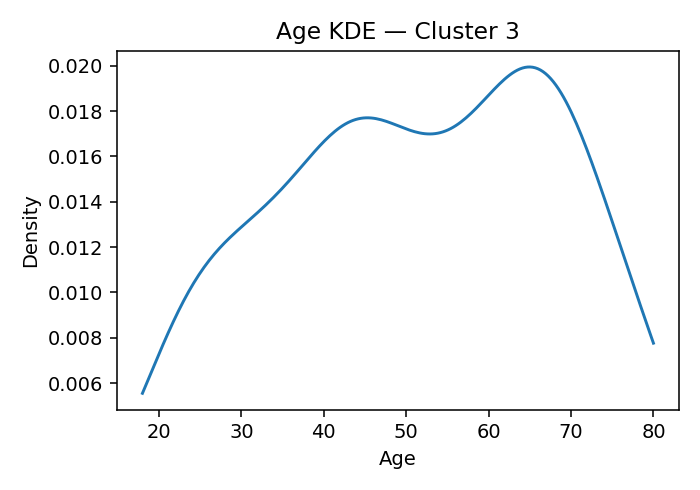
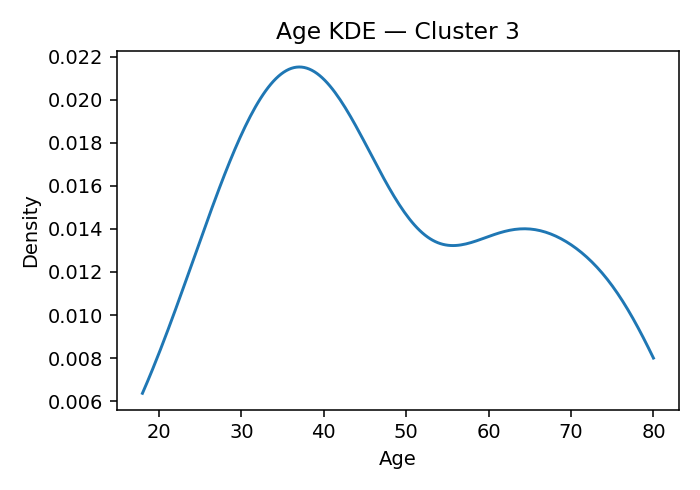
update

diff --git a/anes_cluster_output/clusters_printable_summary.md b/anes_cluster_output/clusters_printable_summary.md
@@ -1,107 +1,190 @@
-# ANES Ideology Clusters (K=10, silhouette=0.146 if computed)
+# ANES Ideology Clusters (K=18, silhouette=0.137 if computed)
 
-## Cluster 0
-**Population share (weighted):** 25.1%
-**Avg Party ID:** 1.93 | **% Harris (weighted):** 93.2%
-**Gender (weighted):** Man 47.8%, Woman 47.5%, Nonbinary 4.7%, Other 0.0%
-**Education (weighted):** College 83.1% | No college 16.9%
-**Homogeneity:** avg z-dist=1.8856, feature z-std=0.4663, domain dispersion=0.191
-![Age KDE — Cluster 0](anes_cluster_output/plots/age_kdensity_cluster0.png)
-**Ideology summary:** Cluster 0 holds relatively liberal views on abortion, immigration, redistribution, environment, health, defense, and religion, as indicated by negative z-scores across all domains. Their strongest liberal stance is on immigration (-0.89) and environment (-0.60), suggesting support for more open immigration policies and environmental protections. They are moderately liberal on abortion, redistribution, health, defense, and religion as well.
+## Cluster 13
+**Population share (weighted):** 19.2%
+**Avg Party ID:** 1.95 (p10–p90: 1.0–3.0)
+**Vote intention (weighted):** Harris 92.2% · Trump 2.6% · Other 5.2% · Non-voting 4.4%
+**Gender (weighted):** Man 49.3% · Woman 44.6% · Nonbinary 6.1% · Other 0.1%
+**Education (weighted):** College 82.7% | No college 17.3%
+**Homogeneity:** avg z-dist 1.5609, feature z-std 0.3464, domain dispersion 0.1726
+![Age KDE — Cluster 13](anes_cluster_output/plots/age_kdensity_cluster13.png)
+**Ideology summary:** Cluster 13 holds consistently liberal views across all domains, with negative mean z-scores indicating opposition to conservative positions on abortion (-0.52), immigration (-0.92), redistribution (-0.53), environment (-0.63), health (-0.37), defense (-0.41), and religion (-0.68). Variation is low in health and defense (SD=0.05), suggesting strong consensus, while immigration (SD=0.39) and religion (SD=0.42) show somewhat more internal diversity. Overall, the cluster is moderately homogeneous (avg z-dist 1.561), with a liberal-leaning party ID (mean 1.95) and high college education (82.7%), predominantly supporting Harris (92.2%) over Trump (2.6%).
 
-## Cluster 3
-**Population share (weighted):** 7.1%
-**Avg Party ID:** 3.71 | **% Harris (weighted):** 42.7%
-**Gender (weighted):** Man 33.7%, Woman 66.0%, Nonbinary 0.0%, Other 0.4%
-**Education (weighted):** College 46.3% | No college 53.7%
-**Homogeneity:** avg z-dist=3.0245, feature z-std=0.6583, domain dispersion=0.1856
-![Age KDE — Cluster 3](anes_cluster_output/plots/age_kdensity_cluster3.png)
-**Ideology summary:** Cluster 3 holds slightly more liberal views on abortion, redistribution, health, and religion, as indicated by their negative z-scores in these domains. Their positions on immigration and the environment are close to neutral but lean marginally conservative, while they show a more notably conservative stance on defense. Overall, the cluster exhibits a mixed profile with moderate liberal tendencies in social and economic issues and conservative leanings in defense.
-
-## Cluster 2
-**Population share (weighted):** 4.8%
-**Avg Party ID:** 3.79 | **% Harris (weighted):** 53.3%
-**Gender (weighted):** Man 35.8%, Woman 62.9%, Nonbinary 0.0%, Other 1.3%
-**Education (weighted):** College 46.9% | No college 53.1%
-**Homogeneity:** avg z-dist=3.7285, feature z-std=0.8355, domain dispersion=0.389
-![Age KDE — Cluster 2](anes_cluster_output/plots/age_kdensity_cluster2.png)
-**Ideology summary:** Cluster 2 holds slightly more liberal views on abortion and immigration, with modestly liberal attitudes toward health and religion. They lean moderately conservative on redistribution, environment, and defense issues. Overall, their positions reflect a mix of liberal and conservative stances depending on the domain.
-
-## Cluster 8
-**Population share (weighted):** 22.2%
-**Avg Party ID:** 3.79 | **% Harris (weighted):** 53.0%
-**Gender (weighted):** Man 49.6%, Woman 49.1%, Nonbinary 0.7%, Other 0.6%
-**Education (weighted):** College 68.6% | No college 31.4%
-**Homogeneity:** avg z-dist=2.3486, feature z-std=0.5347, domain dispersion=0.1598
-![Age KDE — Cluster 8](anes_cluster_output/plots/age_kdensity_cluster8.png)
-**Ideology summary:** Cluster 8 holds slightly more liberal views on abortion, immigration, environment, health, defense, and religion, as indicated by their negative z-scores in these domains. Their stance on redistribution is marginally more conservative, with a small positive z-score. Overall, the cluster leans liberal on social and policy issues, with a modest conservative tilt on economic redistribution.
-
-## Cluster 7
-**Population share (weighted):** 4.7%
-**Avg Party ID:** 3.98 | **% Harris (weighted):** 48.4%
-**Gender (weighted):** Man 39.9%, Woman 59.5%, Nonbinary 0.2%, Other 0.4%
-**Education (weighted):** College 48.7% | No college 51.3%
-**Homogeneity:** avg z-dist=4.013, feature z-std=0.9308, domain dispersion=1.1061
-![Age KDE — Cluster 7](anes_cluster_output/plots/age_kdensity_cluster7.png)
-**Ideology summary:** Cluster 7 holds slightly liberal views on abortion and redistribution, with a modestly liberal stance on religion. They lean somewhat conservative on immigration, environment, health, and defense, showing a particularly strong conservative position on health.
-
-## Cluster 4
-**Population share (weighted):** 3.9%
-**Avg Party ID:** 4.15 | **% Harris (weighted):** 38.7%
-**Gender (weighted):** Man 46.8%, Woman 51.7%, Nonbinary 0.6%, Other 0.8%
-**Education (weighted):** College 45.2% | No college 54.8%
-**Homogeneity:** avg z-dist=3.9753, feature z-std=0.9994, domain dispersion=1.059
-![Age KDE — Cluster 4](anes_cluster_output/plots/age_kdensity_cluster4.png)
-**Ideology summary:** Cluster 4 holds strongly conservative views on abortion, environment, health, and defense, as indicated by notably positive z-scores in these domains. Their positions on immigration, redistribution, and religion are slightly conservative but close to neutral. Overall, the cluster leans toward conservative stances, especially on health and defense issues.
-
-## Cluster 9
-**Population share (weighted):** 3.6%
-**Avg Party ID:** 4.23 | **% Harris (weighted):** 37.9%
-**Gender (weighted):** Man 65.2%, Woman 32.6%, Nonbinary 0.4%, Other 1.8%
-**Education (weighted):** College 41.1% | No college 58.9%
-**Homogeneity:** avg z-dist=4.2542, feature z-std=1.0178, domain dispersion=0.7451
-![Age KDE — Cluster 9](anes_cluster_output/plots/age_kdensity_cluster9.png)
-**Ideology summary:** Cluster 9 holds strongly conservative views on abortion and moderately conservative positions on immigration, environment, health, and defense. Their stance on redistribution is slightly liberal, and their views on religion are near neutral with a slight liberal tendency. Overall, the cluster leans conservative on most issues except redistribution and religion.
+## Cluster 14
+**Population share (weighted):** 2.7%
+**Avg Party ID:** 2.49 (p10–p90: 1.0–6.0)
+**Vote intention (weighted):** Harris 84.9% · Trump 11.5% · Other 3.6% · Non-voting 6.4%
+**Gender (weighted):** Man 46.5% · Woman 53.5% · Nonbinary 0.0% · Other 0.0%
+**Education (weighted):** College 74.4% | No college 25.6%
+**Homogeneity:** avg z-dist 2.8762, feature z-std 0.7118, domain dispersion 0.6081
+![Age KDE — Cluster 14](anes_cluster_output/plots/age_kdensity_cluster14.png)
+**Ideology summary:** Cluster 14 holds generally liberal views on abortion, immigration, redistribution, environment, health, and defense, as indicated by negative domain means (z-scores from -0.21 to -0.47). In contrast, they are strongly conservative on religion (+1.39), showing a clear divergence in this domain. Variation is moderate across domains, with immigration (SD=0.66) and health (SD=0.64) showing the most heterogeneity, while religion is relatively homogeneous (SD=0.36). Overall, the cluster is moderately politically engaged (Party ID mean 2.49) and leans heavily toward Harris (84.9%) with high college education (74.4%).
 
 ## Cluster 5
-**Population share (weighted):** 5.7%
-**Avg Party ID:** 4.42 | **% Harris (weighted):** 40.5%
-**Gender (weighted):** Man 37.5%, Woman 62.3%, Nonbinary 0.1%, Other 0.0%
-**Education (weighted):** College 53.0% | No college 47.0%
-**Homogeneity:** avg z-dist=3.402, feature z-std=0.7506, domain dispersion=0.381
+**Population share (weighted):** 11.1%
+**Avg Party ID:** 2.77 (p10–p90: 1.0–5.0)
+**Vote intention (weighted):** Harris 80.6% · Trump 12.3% · Other 7.2% · Non-voting 10.5%
+**Gender (weighted):** Man 48.9% · Woman 50.4% · Nonbinary 0.2% · Other 0.5%
+**Education (weighted):** College 77.6% | No college 22.4%
+**Homogeneity:** avg z-dist 1.7716, feature z-std 0.3766, domain dispersion 0.2173
 ![Age KDE — Cluster 5](anes_cluster_output/plots/age_kdensity_cluster5.png)
-**Ideology summary:** Cluster 5 holds slightly more liberal views on abortion and health, and notably liberal views on redistribution and religion. They lean moderately conservative on immigration, environment, and defense. Overall, their stance combines liberal social policies with a preference for stronger defense and moderate conservatism on immigration and environmental issues.
-
-## Cluster 6
-**Population share (weighted):** 6.6%
-**Avg Party ID:** 5.49 | **% Harris (weighted):** 16.4%
-**Gender (weighted):** Man 49.6%, Woman 50.1%, Nonbinary 0.0%, Other 0.2%
-**Education (weighted):** College 69.9% | No college 30.1%
-**Homogeneity:** avg z-dist=3.4052, feature z-std=0.8727, domain dispersion=0.4749
-![Age KDE — Cluster 6](anes_cluster_output/plots/age_kdensity_cluster6.png)
-**Ideology summary:** Cluster 6 holds moderately conservative views on abortion, immigration, redistribution, and the environment, with the strongest conservatism in religion. Their positions on health and defense are slightly more liberal. Overall, they emphasize religious values while maintaining conservative stances on social and economic issues.
+**Ideology summary:** Cluster 5 holds generally liberal views on abortion (-0.43), immigration (-0.47), environment (-0.50), health (-0.34), defense (-0.39), and religion (-0.63), with a slight conservative tilt on redistribution (+0.11). Variation is low in health (SD=0.06) and defense (SD=0.04), indicating strong consensus, while religion (SD=0.43) and immigration (SD=0.39) show more internal diversity. Overall homogeneity is moderate (avg z-dist=1.772), reflecting some within-cluster variation. The cluster leans Democratic (Harris 80.6%) with high college education (77.6%) and moderate party ID (mean 2.77).
 
 ## Cluster 1
-**Population share (weighted):** 16.4%
-**Avg Party ID:** 6.0 | **% Harris (weighted):** 3.6%
-**Gender (weighted):** Man 58.5%, Woman 41.2%, Nonbinary 0.0%, Other 0.3%
-**Education (weighted):** College 63.0% | No college 37.0%
-**Homogeneity:** avg z-dist=2.3634, feature z-std=0.5583, domain dispersion=0.4523
+**Population share (weighted):** 4.8%
+**Avg Party ID:** 2.95 (p10–p90: 1.0–6.0)
+**Vote intention (weighted):** Harris 75.9% · Trump 21.1% · Other 3.1% · Non-voting 17.6%
+**Gender (weighted):** Man 23.0% · Woman 75.4% · Nonbinary 0.0% · Other 1.6%
+**Education (weighted):** College 58.8% | No college 41.2%
+**Homogeneity:** avg z-dist 2.9329, feature z-std 0.6191, domain dispersion 1.0337
 ![Age KDE — Cluster 1](anes_cluster_output/plots/age_kdensity_cluster1.png)
-**Ideology summary:** Cluster 1 holds moderately conservative views on abortion, immigration, redistribution, and the environment. They lean slightly liberal on health, defense, and religion. Overall, their stance is mixed but tends toward conservatism in social and economic issues.
+**Ideology summary:** Cluster 1 holds generally liberal views on abortion, immigration, redistribution, environment, health, and religion, as indicated by negative mean z-scores ranging from -0.24 to -0.36. Defense stands out with a strongly conservative mean z-score of +2.64 and zero variation, indicating unanimous conservative views on this domain. Variation within domains is moderate to low, especially minimal for health (SD=0.06) and defense (SD=0.00), suggesting relative homogeneity in these areas, while immigration shows the highest variation (SD=0.67). Overall, the cluster exhibits moderate homogeneity (avg z-dist=2.933), with a liberal-leaning profile except for a strong consensus on conservative defense attitudes.
+
+## Cluster 7
+**Population share (weighted):** 4.6%
+**Avg Party ID:** 3.63 (p10–p90: 1.0–7.0)
+**Vote intention (weighted):** Harris 45.5% · Trump 45.0% · Other 9.5% · Non-voting 15.9%
+**Gender (weighted):** Man 43.3% · Woman 56.1% · Nonbinary 0.0% · Other 0.6%
+**Education (weighted):** College 41.1% | No college 58.9%
+**Homogeneity:** avg z-dist 2.6121, feature z-std 0.5478, domain dispersion 0.1116
+![Age KDE — Cluster 7](anes_cluster_output/plots/age_kdensity_cluster7.png)
+**Ideology summary:** Cluster 7 exhibits generally liberal views, with negative mean z-scores on abortion (-0.17), redistribution (-0.26), environment (-0.25), health (-0.33), defense (-0.37), and religion (-0.26), while immigration is neutral (-0.00). Variation is low in health (0.07) and defense (0.05), indicating strong consensus on these domains, but higher in immigration (0.70) and religion (0.64), showing more diverse opinions there. The cluster is moderately homogeneous (avg z-dist 2.612), with moderate variation across features (z-std 0.548) and low domain dispersion (0.112), reflecting consistent liberal-leaning attitudes overall. Party ID is mixed, with nearly equal support for Harris and Trump, suggesting ideological diversity within the group.
+
+## Cluster 3
+**Population share (weighted):** 3.3%
+**Avg Party ID:** 3.87 (p10–p90: 1.0–7.0)
+**Vote intention (weighted):** Harris 44.1% · Trump 50.8% · Other 5.1% · Non-voting 34.1%
+**Gender (weighted):** Man 41.4% · Woman 58.6% · Nonbinary 0.0% · Other 0.0%
+**Education (weighted):** College 53.0% | No college 47.0%
+**Homogeneity:** avg z-dist 4.0097, feature z-std 0.9193, domain dispersion 0.7451
+![Age KDE — Cluster 3](anes_cluster_output/plots/age_kdensity_cluster3.png)
+**Ideology summary:** Cluster 3 shows a mixed ideological profile: they are slightly liberal on abortion (-0.14) and religion (-0.33), but slightly conservative on immigration (+0.08) and redistribution (+0.29). They are strongly conservative on environment (+1.21), health (+1.21), and especially defense (+1.77). Variation is highest in health (SD=1.73) and defense (SD=1.36), indicating diverse views within the cluster on these domains, while redistribution (SD=0.45) and abortion (SD=0.55) are more homogeneous. Overall, moderate homogeneity is reflected in domain dispersion (0.745) and feature z-std (0.919), with an average ideological distance of 4.010.
+
+## Cluster 15
+**Population share (weighted):** 1.9%
+**Avg Party ID:** 3.88 (p10–p90: 1.0–7.0)
+**Vote intention (weighted):** Harris 57.2% · Trump 34.6% · Other 8.2% · Non-voting 36.9%
+**Gender (weighted):** Man 45.6% · Woman 53.9% · Nonbinary 0.5% · Other 0.0%
+**Education (weighted):** College 29.5% | No college 70.5%
+**Homogeneity:** avg z-dist 3.8364, feature z-std 0.8763, domain dispersion 1.1784
+![Age KDE — Cluster 15](anes_cluster_output/plots/age_kdensity_cluster15.png)
+**Ideology summary:** Cluster 15 shows generally liberal views on abortion (-0.10) and religion (-0.49), with moderate conservatism on immigration (+0.17), environment (+0.29), and defense (+0.74). Redistribution is notably liberal (-0.56), while health is strongly conservative (+3.16) with no variation, indicating unanimous conservative views on health. Defense has the highest variation (SD=1.45), suggesting diverse opinions. Overall, the cluster is moderately heterogeneous (avg z-dist 3.836), with a strong Republican leaning (Party ID mean 3.88) and a majority supporting Trump (34.6%) over Harris (57.2%).
+
+## Cluster 16
+**Population share (weighted):** 3.0%
+**Avg Party ID:** 3.91 (p10–p90: 1.0–7.0)
+**Vote intention (weighted):** Harris 51.7% · Trump 40.4% · Other 7.9% · Non-voting 13.8%
+**Gender (weighted):** Man 38.1% · Woman 59.8% · Nonbinary 0.0% · Other 2.1%
+**Education (weighted):** College 47.7% | No college 52.3%
+**Homogeneity:** avg z-dist 3.2661, feature z-std 0.7525, domain dispersion 0.375
+![Age KDE — Cluster 16](anes_cluster_output/plots/age_kdensity_cluster16.png)
+**Ideology summary:** Cluster 16 holds generally liberal views on abortion (-0.20), immigration (-0.10), environment (-0.05), health (-0.32), defense (-0.02), and religion (-0.61), with the strongest liberal stance on religion. They are moderately conservative on redistribution (+0.71). Variation is lowest on health (SD=0.07), indicating strong agreement, and highest on defense (SD=0.97), showing diverse opinions. Overall, the cluster is moderately heterogeneous (avg z-dist 3.266), with moderate dispersion across domains (0.375).
+
+## Cluster 12
+**Population share (weighted):** 5.6%
+**Avg Party ID:** 3.99 (p10–p90: 1.0–7.0)
+**Vote intention (weighted):** Harris 41.5% · Trump 47.0% · Other 11.5% · Non-voting 16.7%
+**Gender (weighted):** Man 31.1% · Woman 68.9% · Nonbinary 0.0% · Other 0.0%
+**Education (weighted):** College 57.3% | No college 42.7%
+**Homogeneity:** avg z-dist 3.2726, feature z-std 0.7138, domain dispersion 0.5977
+![Age KDE — Cluster 12](anes_cluster_output/plots/age_kdensity_cluster12.png)
+**Ideology summary:** Cluster 12 shows generally liberal views on abortion (-0.14), redistribution (-0.23), health (-0.33), and religion (-0.33), with a neutral stance on immigration (0.00). They are notably conservative on the environment (+1.36) and defense (+0.72). Variation is low for health (SD=0.07) indicating strong consensus, moderate for environment (0.44) and redistribution (0.50), but high for defense (1.44) and immigration (0.70), suggesting diverse opinions especially on defense. Overall, the cluster is moderately heterogeneous (avg z-dist 3.273) with moderate domain dispersion (0.598). Party ID is centered around 4 (scale 1–7), with a mix of Harris and Trump supporters and a majority college-educated.
+
+## Cluster 8
+**Population share (weighted):** 3.6%
+**Avg Party ID:** 4.22 (p10–p90: 1.0–7.0)
+**Vote intention (weighted):** Harris 38.0% · Trump 59.1% · Other 2.9% · Non-voting 28.0%
+**Gender (weighted):** Man 65.3% · Woman 32.5% · Nonbinary 0.4% · Other 1.8%
+**Education (weighted):** College 41.1% | No college 58.9%
+**Homogeneity:** avg z-dist 4.2348, feature z-std 1.0113, domain dispersion 0.7414
+![Age KDE — Cluster 8](anes_cluster_output/plots/age_kdensity_cluster8.png)
+**Ideology summary:** Cluster 8 is strongly conservative on abortion (mean z = +2.22) with moderate homogeneity (SD = 0.77), indicating general agreement but some variation. They are slightly conservative on immigration (+0.20), environment (+0.40), health (+0.35), and defense (+0.62), with defense and health showing higher variation (SDs 1.41 and 1.38), suggesting diverse views within the cluster. Redistribution (-0.17) and religion (-0.06) lean slightly liberal but near neutral, with moderate variation. Overall, the cluster shows moderate domain dispersion (0.741) and average ideological spread (feature z-std 1.011), reflecting a predominantly conservative profile with some internal diversity.
+
+## Cluster 6
+**Population share (weighted):** 2.9%
+**Avg Party ID:** 4.24 (p10–p90: 1.0–7.0)
+**Vote intention (weighted):** Harris 44.4% · Trump 37.5% · Other 18.1% · Non-voting 35.7%
+**Gender (weighted):** Man 43.1% · Woman 55.0% · Nonbinary 0.8% · Other 1.1%
+**Education (weighted):** College 42.9% | No college 57.1%
+**Homogeneity:** avg z-dist 3.7296, feature z-std 0.9247, domain dispersion 1.0569
+![Age KDE — Cluster 6](anes_cluster_output/plots/age_kdensity_cluster6.png)
+**Ideology summary:** Cluster 6 exhibits strongly conservative views on abortion (+2.12), health (+2.76), defense (+2.12), and environment (+1.26), with moderate conservatism on immigration (+0.04), redistribution (+0.10), and religion (+0.14). Variation is highest in health (SD=1.11), defense (1.13), and religion (1.11), indicating more diverse opinions in these domains, while abortion (0.80), immigration (0.66), redistribution (0.59), and environment (0.65) show more homogeneity. Overall, the cluster is moderately homogeneous (avg z-dist 3.73) with a conservative central tendency, reflected also in party ID mean of 4.24 and notable support for both Harris (44.4%) and Trump (37.5%).
+
+## Cluster 9
+**Population share (weighted):** 2.4%
+**Avg Party ID:** 4.36 (p10–p90: 1.0–7.0)
+**Vote intention (weighted):** Harris 38.5% · Trump 57.1% · Other 4.4% · Non-voting 5.2%
+**Gender (weighted):** Man 43.1% · Woman 56.1% · Nonbinary 0.0% · Other 0.7%
+**Education (weighted):** College 64.5% | No college 35.5%
+**Homogeneity:** avg z-dist 3.3709, feature z-std 0.7808, domain dispersion 1.1385
+![Age KDE — Cluster 9](anes_cluster_output/plots/age_kdensity_cluster9.png)
+**Ideology summary:** Cluster 9 shows slightly liberal views on abortion (-0.10) and religion (-0.53), with modestly conservative stances on immigration (+0.08), redistribution (+0.22), environment (+0.09), and defense (+0.04). Health stands out as strongly conservative (+3.16) with no variation, indicating unanimous agreement on this domain. Variation is moderate to high in defense (1.04) and environment (0.84), suggesting diverse opinions there, while abortion, immigration, redistribution, and religion show moderate homogeneity. Overall, the cluster is moderately heterogeneous (avg z-dist 3.371) with a center leaning slightly conservative except for health and religion, and a Party ID mean of 4.36 reflects a mixed partisan composition.
+
+## Cluster 0
+**Population share (weighted):** 10.4%
+**Avg Party ID:** 4.67 (p10–p90: 1.0–7.0)
+**Vote intention (weighted):** Harris 29.6% · Trump 60.6% · Other 9.8% · Non-voting 10.9%
+**Gender (weighted):** Man 53.4% · Woman 44.7% · Nonbinary 1.3% · Other 0.5%
+**Education (weighted):** College 61.7% | No college 38.3%
+**Homogeneity:** avg z-dist 2.1014, feature z-std 0.4242, domain dispersion 0.3337
+![Age KDE — Cluster 0](anes_cluster_output/plots/age_kdensity_cluster0.png)
+**Ideology summary:** Cluster 0 exhibits moderately conservative views on immigration (+0.57) but tends to be slightly liberal on abortion (-0.05), redistribution (-0.09), environment (-0.19), health (-0.31), defense (-0.36), and religion (-0.57). Variation is low for health (0.07) and defense (0.14), indicating consensus, while abortion (0.48) and religion (0.49) show more internal diversity. Overall, the cluster is moderately heterogeneous (avg z-dist 2.101) with moderate domain dispersion (0.334), reflecting some variation across issues despite a generally centrist-to-liberal stance except on immigration.
+
+## Cluster 10
+**Population share (weighted):** 3.1%
+**Avg Party ID:** 5.37 (p10–p90: 2.0–7.0)
+**Vote intention (weighted):** Harris 19.1% · Trump 74.1% · Other 6.8% · Non-voting 10.5%
+**Gender (weighted):** Man 38.1% · Woman 61.6% · Nonbinary 0.3% · Other 0.0%
+**Education (weighted):** College 56.9% | No college 43.1%
+**Homogeneity:** avg z-dist 2.9968, feature z-std 0.7006, domain dispersion 0.3591
+![Age KDE — Cluster 10](anes_cluster_output/plots/age_kdensity_cluster10.png)
+**Ideology summary:** Cluster 10 shows a moderately conservative stance on immigration (+0.54) and a slightly conservative view on environment (+0.19), while holding liberal positions on redistribution (-0.51), health (-0.27), defense (-0.14), and religion (-0.54). Abortion views are near neutral (+0.01). Variation is highest in defense (0.79) and environment (0.73), indicating diverse opinions there, while health (0.26) and redistribution (0.42) are more homogeneous. Overall, the cluster is moderately heterogeneous (avg z-dist 2.997) with moderate domain dispersion (0.359), reflecting some internal diversity despite a central tendency toward conservative immigration and liberal redistribution and religion.
+
+## Cluster 11
+**Population share (weighted):** 6.9%
+**Avg Party ID:** 5.38 (p10–p90: 3.0–7.0)
+**Vote intention (weighted):** Harris 11.7% · Trump 81.5% · Other 6.8% · Non-voting 12.2%
+**Gender (weighted):** Man 65.4% · Woman 34.6% · Nonbinary 0.0% · Other 0.0%
+**Education (weighted):** College 73.8% | No college 26.2%
+**Homogeneity:** avg z-dist 2.1091, feature z-std 0.4527, domain dispersion 0.3476
+![Age KDE — Cluster 11](anes_cluster_output/plots/age_kdensity_cluster11.png)
+**Ideology summary:** Cluster 11 exhibits moderately conservative views on abortion (+0.31), immigration (+0.15), redistribution (+0.47), and environment (+0.33), while showing more liberal stances on health (-0.26), defense (-0.35), and religion (-0.46). Variation is low for health (SD=0.06) and defense (0.21), indicating homogeneity in these domains, but higher for religion (0.59) and abortion (0.46), suggesting more diverse opinions. Overall, the cluster is somewhat ideologically consistent (domain dispersion 0.348) with a strong Republican leaning (Trump 81.5%) and high college education (73.8%).
+
+## Cluster 17
+**Population share (weighted):** 5.0%
+**Avg Party ID:** 5.68 (p10–p90: 4.0–7.0)
+**Vote intention (weighted):** Harris 9.8% · Trump 82.3% · Other 7.9% · Non-voting 3.1%
+**Gender (weighted):** Man 54.2% · Woman 45.5% · Nonbinary 0.0% · Other 0.3%
+**Education (weighted):** College 67.4% | No college 32.6%
+**Homogeneity:** avg z-dist 3.1036, feature z-std 0.8111, domain dispersion 0.5224
+![Age KDE — Cluster 17](anes_cluster_output/plots/age_kdensity_cluster17.png)
+**Ideology summary:** Cluster 17 holds generally conservative views on abortion (+0.77), immigration (+0.56), redistribution (+0.27), environment (+0.37), and strongly conservative views on religion (+1.50). They are slightly more liberal on health (-0.13) and defense (-0.12). Variation is moderate to high in defense (0.82), health (0.65), and environment (0.64), indicating some internal diversity, while religion is more homogeneous (SD 0.33). Overall, the cluster is moderately homogeneous (avg z-dist 3.104) with a strong Republican leaning (82.3% Trump supporters) and a majority college-educated (67.4%).
+
+## Cluster 4
+**Population share (weighted):** 3.6%
+**Avg Party ID:** 5.93 (p10–p90: 4.0–7.0)
+**Vote intention (weighted):** Harris 8.7% · Trump 85.4% · Other 6.0% · Non-voting 6.1%
+**Gender (weighted):** Man 48.9% · Woman 51.1% · Nonbinary 0.0% · Other 0.0%
+**Education (weighted):** College 57.0% | No college 43.0%
+**Homogeneity:** avg z-dist 2.9033, feature z-std 0.7069, domain dispersion 0.4296
+![Age KDE — Cluster 4](anes_cluster_output/plots/age_kdensity_cluster4.png)
+**Ideology summary:** Cluster 4 exhibits generally conservative views on abortion (+0.72) and immigration (+0.64), with moderate conservatism on redistribution (+0.30) and environment (+0.29). They lean more liberal on health (-0.27), defense (-0.23), and religion (-0.46). Variation is lowest for health (SD=0.07), indicating strong agreement, while immigration (0.65) and defense (0.61) show greater internal diversity. Overall homogeneity is moderate (avg z-dist 2.903), with a conservative Party ID mean (5.93) and strong Trump support (85.4%), suggesting a predominantly conservative cluster with some internal variation on certain domains.
+
+## Cluster 2
+**Population share (weighted):** 6.0%
+**Avg Party ID:** 6.07 (p10–p90: 5.0–7.0)
+**Vote intention (weighted):** Harris 2.6% · Trump 94.4% · Other 2.9% · Non-voting 7.1%
+**Gender (weighted):** Man 57.9% · Woman 42.1% · Nonbinary 0.0% · Other 0.0%
+**Education (weighted):** College 66.4% | No college 33.6%
+**Homogeneity:** avg z-dist 1.8909, feature z-std 0.4422, domain dispersion 0.5072
+![Age KDE — Cluster 2](anes_cluster_output/plots/age_kdensity_cluster2.png)
+**Ideology summary:** Cluster 2 exhibits moderately conservative views on abortion (+0.23), immigration (+1.12), redistribution (+0.60), and environment (+0.47), with the strongest conservatism on immigration. They lean slightly liberal on health (-0.23), defense (-0.32), and religion (-0.31). Variation is lowest for immigration (SD=0.30) and redistribution (0.32), indicating relative agreement, while religion shows the highest variation (0.57), suggesting more diverse views. Overall, the cluster is moderately homogeneous (avg z-dist 1.891), with a strong Republican identification (94.4% Trump supporters) and a majority college-educated (66.4%).
 
 ## Methodology
-
-**Data.** ANES 2024 Time Series. Weighted percentages/means use the first available pre-election weight in the file. Clustering is unweighted (K-means).
-
-**Ideology features.** Seven domains: abortion, immigration, redistribution/government role, environment/climate, health insurance, defense spending, and religiosity. All items are sign-aligned so higher = more conservative. We exclude leader/candidate evaluations, issue salience, and “party better on issue”.
-
-**Missingness.** ANES negative codes → missing. Keep respondents with ≥60% answered ideology items. Median impute per feature for clustering.
-
-**Scaling & clustering.** Standardize features (z). Choose K by max silhouette over K=10…20, then fit K-means (multiple starts).
-
-**Summaries.** For each cluster: weighted % Harris, weighted mean party ID, weighted gender shares, weighted college vs no-college shares, a GitHub-embedded age KDE, and population share (weighted).
-
-**Domain indices & homogeneity.** Domain index = mean of sign-aligned item z-scores within domain. Homogeneity: (1) avg z-distance to centroid, (2) mean per-feature z-std, (3) dispersion across domain indices.
-
-**LLM text.** The summary is generated strictly from domain indices (signs & magnitudes) with the instruction: “Describe their views on abortion, immigration, redistribution, environment, health, defense, and religion, but only based on the data you see.” Positive domain z = more conservative; negative = more liberal.
+Data: ANES 2024 Time Series. Weighted percentages/means use the first available pre-election weight. Clustering is unweighted (K-means).
+Ideology features: seven domains (abortion, immigration, redistribution, environment, health, defense, religion). All items sign-aligned so higher = more conservative. We exclude leader/candidate evaluations, issue salience, and “party better on issue”.
+Missingness: ANES negatives → missing. Keep respondents with ≥60% ideology items. Median impute per feature.
+Scaling & clustering: z-scores; K chosen by silhouette over K=12…20; K-means with many starts.
+Summaries: per cluster — weighted vote shares (Harris/Trump/Other/Non-voting), weighted party-ID mean and p10–p90, weighted gender shares, weighted college/no-college, an age KDE image, population share.
+Homogeneity: domain z-means and SDs; plus average z-distance to centroid and mean per-feature z-std.
+LLM text: built from domain means/SDs and topline stats; it must reference homogeneity and discuss both means and variation.
